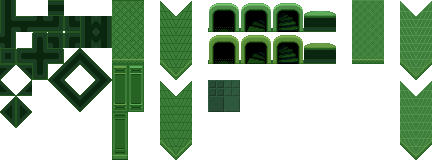
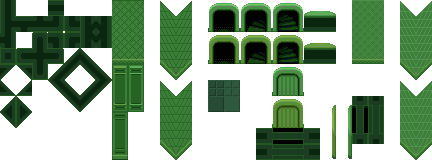
Add east west doors for jade interiors.

Changed region(s): [[0.5718, 0.4062, 0.9028, 1.0]]

diff --git a/app/content/objects/doorStyles.ts b/app/content/objects/doorStyles.ts
@@ -4,10 +4,17 @@ import {
     iceRightAnimation,
     iceTopAnimation,
 } from 'app/content/animations/iceOverlay';
-import type { Door } from 'app/content/objects/door';
-import { createAnimation, drawFrame, drawFrameAt, getFrame } from 'app/utils/animations';
-import { debugCanvas } from 'app/utils/canvas';
-import { requireFrame } from 'app/utils/packedImages';
+import type {Door} from 'app/content/objects/door';
+import {
+    createAnimation,
+    drawFrame,
+    drawFrameAt,
+    drawFrameContentAt,
+    drawFrameContentReflectedAt,
+    getFrame,
+} from 'app/utils/animations';
+import {debugCanvas} from 'app/utils/canvas';
+import {requireFrame} from 'app/utils/packedImages';
 
 
 interface DoorStyleFrames {
@@ -29,12 +36,14 @@ export interface DoorStyleDefinition {
     isLadderUp?: boolean
     isLadderDown?: boolean
     render?: (context: CanvasRenderingContext2D, state: GameState, door: Door) => void
+    renderAfterHero?: (context: CanvasRenderingContext2D, state: GameState, door: Door) => void
     renderForeground?: (context: CanvasRenderingContext2D, state: GameState, door: Door) => void
     down?: DoorStyleFrames
     right?: DoorStyleFrames
     up?: DoorStyleFrames
     left?: DoorStyleFrames
     mapIcon?: MapIcon
+    getDrawPriority?: (state: GameState, door: Door) => DrawPriority|undefined
     // Possible options for dynamic map icons:
     // getMapIcon?: (state: GameState, door: Door) => void
     // renderMapIcon?: (context: CanvasRenderingContext2D, state: GameState, door: Door) => void
@@ -61,11 +70,13 @@ interface V1DoorFrames {
     westDoorOpenForeground: Frame
     westDoorClosed: Frame
     westCrackedWall: Frame
+    westDoorTrim?: Frame
     eastDoorEmpty: Frame
     eastDoorEmptyForeground: Frame
     eastDoorOpen: Frame
     eastDoorOpenForeground: Frame
     eastDoorClosed: Frame
+    eastDoorTrim?: Frame
     eastCrackedWall: Frame
     southDoorEmpty: Frame
     southDoorOpen: Frame
@@ -123,6 +134,24 @@ function renderV1DoorBackground(this: void, context: CanvasRenderingContext2D, s
     }
     // There is no background frame for southern doors.
     checkToRenderFrozenDoor(context, state, door);
+}
+
+// When the hero is a render child of the door, we need to make sure the east/west trim is drawn in front of the hero, but we
+// cannot draw it in the foreground in general as it should be behind the hero when the hero stands to the south of the door trim.
+function renderV1DoorAfterHero(this: void, context: CanvasRenderingContext2D, state: GameState, door: Door, v1DoorFrames: V1DoorFrames) {
+    if (door.definition.d === 'left') {
+        if (v1DoorFrames.westDoorTrim) {
+            drawFrameContentAt(context, v1DoorFrames.westDoorTrim, {x: door.x + 16, y: door.y - 2});
+        } else if (v1DoorFrames.eastDoorTrim) {
+            drawFrameContentReflectedAt(context, v1DoorFrames.eastDoorTrim, {x: door.x + 16, y: door.y - 2});
+        }
+    } else if (door.definition.d === 'right') {
+        if (v1DoorFrames.eastDoorTrim) {
+            drawFrameContentAt(context, v1DoorFrames.eastDoorTrim, {x: door.x - 16, y: door.y - 2});
+        } else if (v1DoorFrames.eastDoorTrim) {
+            drawFrameContentReflectedAt(context, v1DoorFrames.eastDoorTrim, {x: door.x - 16, y: door.y - 2});
+        }
+    }
 }
 
 function renderV1DoorForeground(context: CanvasRenderingContext2D, state: GameState, door: Door, v1DoorFrames: V1DoorFrames, h = 12) {
@@ -706,9 +735,9 @@ const jadeLightDoorStyle: DoorStyleDefinition = {
 
 //DARK JADE DOOR STYLE
 const jadeDarkImage = 'gfx/tiles/jadeCityDark.png';
-const jadeDarkDoorOpen = requireFrame(jadeDarkImage, {x: 96, y: 110, w: 32, h: 36})
-const jadeDarkStairsDown = requireFrame(jadeDarkImage, {x: 128, y: 110, w: 32, h: 36})
-const jadeDarkStairsUp = requireFrame(jadeDarkImage, {x: 160, y: 110, w: 32, h: 36})
+const jadeDarkDoorOpen = requireFrame(jadeDarkImage, {x: 96, y: 110, w: 32, h: 36});
+const jadeDarkStairsDown = requireFrame(jadeDarkImage, {x: 128, y: 110, w: 32, h: 36});
+const jadeDarkStairsUp = requireFrame(jadeDarkImage, {x: 160, y: 110, w: 32, h: 36});
 
 //Using cavern doors to fill in for non-existant jade doors
 const jadeDarkDoorFrames: V1DoorFrames = {
@@ -727,7 +756,10 @@ const jadeLightIntImage = 'gfx/tiles/jadeInteriorLight.png';
 const jadeLight1IntDoorOpen = requireFrame(jadeLightIntImage, {x: 208, y: 0, w: 32, h: 32})
 const jadeLight1IntStairsDown = requireFrame(jadeLightIntImage, {x: 240, y: 0, w: 32, h: 32})
 const jadeLight1IntStairsUp = requireFrame(jadeLightIntImage, {x: 272, y: 0, w: 32, h: 32})
-const jadeLight1IntSouthDoor = requireFrame('gfx/tiles/jadeInteriorLight.png', {x: 304, y: 0, w: 32, h: 32})
+const jadeLight1IntSouthDoor = requireFrame(jadeLightIntImage, {x: 304, y: 0, w: 32, h: 32})
+const jadeLight1IntEastTrim = requireFrame(jadeLightIntImage, {x: 336, y: 96, w: 16, h: 64});
+const jadeLight1IntEastOpen = requireFrame(jadeLightIntImage, {x: 352, y: 96, w: 16, h: 48});
+const jadeLight1IntEastClosed = requireFrame(jadeLightIntImage, {x: 368, y: 96, w: 16, h: 48});
 /*
 const jadeLight2IntDoorOpen = requireFrame(jadeLightIntImage, {x: 208, y: 32, w: 32, h: 32})
 const jadeLight2IntStairsDown = requireFrame(jadeLightIntImage, {x: 240, y: 32, w: 32, h: 32})
@@ -736,6 +768,17 @@ const jadeLight2IntSouthDoor = requireFrame('gfx/tiles/jadeInteriorLight.png', {
 */
 const jadeLight1DoorFrames: V1DoorFrames = {
     ...cavernDoorFrames, 
+    eastDoorEmpty: jadeLight1IntEastOpen,
+    eastDoorEmptyForeground: jadeLight1IntEastOpen,
+    eastDoorOpen: jadeLight1IntEastOpen,
+    eastDoorOpenForeground: jadeLight1IntEastOpen,
+    eastDoorClosed: jadeLight1IntEastClosed,
+    eastDoorTrim: jadeLight1IntEastTrim,
+    westDoorEmpty: jadeLight1IntEastOpen,
+    westDoorEmptyForeground: jadeLight1IntEastOpen,
+    westDoorOpen: jadeLight1IntEastOpen,
+    westDoorOpenForeground: jadeLight1IntEastOpen,
+    westDoorClosed: jadeLight1IntEastClosed,
     northDoorway: jadeLight1IntDoorOpen,
     southDoorEmpty: jadeLight1IntSouthDoor,
     southDoorOpen: jadeLight1IntSouthDoor,
@@ -751,8 +794,43 @@ const jadeLight2DoorFrames:  V1DoorFrames = {
 */
 
 const jadeLight1DoorStyle: DoorStyleDefinition = {
-    ...commonBaseDoorStyle,
+    getHitbox(door: Door) {
+        if (door.definition.d === 'up') {
+            return {x: door.x, y: door.y, w: 32, h: 32};
+        }
+        if (door.definition.d === 'down') {
+            return {x: door.x, y: door.y + 8, w: 64, h: 8};
+        }
+        if (door.definition.d === 'left') {
+            return {x: door.x, y: door.y + 4, w: 20, h: 56};
+        }
+        if (door.definition.d === 'right') {
+            return {x: door.x - 4, y: door.y + 4, w: 20, h: 56};
+        }
+    },
+    getPathHitbox(door: Door) {
+        if (door.definition.d === 'up') {
+            return {x: door.x + 8, y: door.y, w: 16, h: 32};
+        }
+        if (door.definition.d === 'down') {
+            return {x: door.x + 16, y: door.y + 8, w: 32, h: 8};
+        }
+        if (door.definition.d === 'left') {
+            return {x: door.x, y: door.y + 32, w: 20, h: 16};
+        }
+        if (door.definition.d === 'right') {
+            return {x: door.x - 4, y: door.y + 32, w: 20, h: 16};
+        }
+    },
+    getDrawPriority: (state, door) => {
+        if (door.definition.d === 'left' || door.definition.d === 'right') {
+            return 'sprites';
+        }
+        // Use default draw priority for doors otherwise.
+        return undefined;
+    },
     render: (context, state, door) => renderV1DoorBackground(context, state, door, jadeLight1DoorFrames),
+    renderAfterHero: (context, state, door) => renderV1DoorAfterHero(context, state, door, jadeLight1DoorFrames),
     renderForeground: (context, state, door) => renderV1DoorForeground(context, state, door, jadeLight1DoorFrames),
 };
 
@@ -769,17 +847,31 @@ const jadeDarkIntImage = 'gfx/tiles/jadeInteriorDark.png';
 const jadeDark1IntDoorOpen = requireFrame(jadeDarkIntImage, {x: 208, y: 0, w: 32, h: 32})
 const jadeDark1IntStairsDown = requireFrame(jadeDarkIntImage, {x: 240, y: 0, w: 32, h: 32})
 const jadeDark1IntStairsUp = requireFrame(jadeDarkIntImage, {x: 272, y: 0, w: 32, h: 32})
-const jadeDark1IntSouthDoor = requireFrame('gfx/tiles/jadeInteriorDark.png', {x: 304, y: 0, w: 32, h: 32})
+const jadeDark1IntSouthDoor = requireFrame(jadeDarkIntImage, {x: 304, y: 0, w: 32, h: 32})
+const jadeDark1IntEastTrim = requireFrame(jadeDarkIntImage, {x: 336, y: 96, w: 16, h: 64});
+const jadeDark1IntEastOpen = requireFrame(jadeDarkIntImage, {x: 352, y: 96, w: 16, h: 48});
+const jadeDark1IntEastClosed = requireFrame(jadeDarkIntImage, {x: 368, y: 96, w: 16, h: 48});
 
 /*
 const jadeDark2IntDoorOpen = requireFrame(jadeDarkIntImage, {x: 208, y: 32, w: 32, h: 32})
 const jadeDark2IntStairsDown = requireFrame(jadeDarkIntImage, {x: 240, y: 32, w: 32, h: 32})
 const jadeDark2IntStairsUp = requireFrame(jadeDarkIntImage, {x: 272, y: 32, w: 32, h: 32})
-const jadeDark2IntSouthDoor = requireFrame('gfx/tiles/jadeInteriorDark.png', {x: 256, y: 96, w: 64, h: 32})
+const jadeDark2IntSouthDoor = requireFrame(jadeDarkIntImage, {x: 256, y: 96, w: 64, h: 32})
 */
 
 const jadeDark1DoorFrames: V1DoorFrames = {
     ...cavernDoorFrames,
+    eastDoorEmpty: jadeDark1IntEastOpen,
+    eastDoorEmptyForeground: jadeDark1IntEastOpen,
+    eastDoorOpen: jadeDark1IntEastOpen,
+    eastDoorOpenForeground: jadeDark1IntEastOpen,
+    eastDoorClosed: jadeDark1IntEastClosed,
+    eastDoorTrim: jadeDark1IntEastTrim,
+    westDoorEmpty: jadeDark1IntEastOpen,
+    westDoorEmptyForeground: jadeDark1IntEastOpen,
+    westDoorOpen: jadeDark1IntEastOpen,
+    westDoorOpenForeground: jadeDark1IntEastOpen,
+    westDoorClosed: jadeDark1IntEastClosed,
     northDoorway: jadeDark1IntDoorOpen,
     southDoorEmpty: jadeDark1IntSouthDoor,
     southDoorOpen: jadeDark1IntSouthDoor,
@@ -795,8 +887,9 @@ const jadeDark2DoorFrames:  V1DoorFrames = {
 */
 
 const jadeDark1DoorStyle: DoorStyleDefinition = {
-    ...commonBaseDoorStyle,
+    ...jadeLight1DoorStyle,
     render: (context, state, door) => renderV1DoorBackground(context, state, door, jadeDark1DoorFrames),
+    renderAfterHero: (context, state, door) => renderV1DoorAfterHero(context, state, door, jadeDark1DoorFrames),
     renderForeground: (context, state, door) => renderV1DoorForeground(context, state, door, jadeDark1DoorFrames),
 };
 

diff --git a/app/content/zones/holyCityInterior.ts b/app/content/zones/holyCityInterior.ts
@@ -542,11 +542,11 @@ const f0_1x1: AreaDefinition = {
                     [2241,0,0,0,0,0,0,0,0,0,0,0,0,0,0,2241,28,2241,0,0,0,0,0,0,0,0,0,0,0,0,0,2241],
                     [2241,0,0,0,0,0,0,0,0,0,0,0,0,0,0,2241,28,2241,0,0,0,0,0,0,0,0,0,0,0,0,0,2241],
                     [2241,0,0,0,0,0,0,0,0,0,0,0,0,0,0,2241,28,2241,0,0,0,0,0,0,0,0,0,0,0,0,0,2241],
-                    [2241,0,0,0,0,0,0,0,0,0,0,0,0,0,0,2264,28,2264,0,0,0,0,0,0,0,0,0,0,0,0,0,2241],
+                    [2241,0,0,0,0,0,0,0,0,0,0,0,0,0,0,2241,28,2241,0,0,0,0,0,0,0,0,0,0,0,0,0,2241],
                     [2241,0,0,0,0,0,0,0,0,0,0,0,0,0,0,0,28,0,0,0,0,0,0,0,0,0,0,0,0,0,0,2241],
                     [2241,0,0,0,0,0,0,0,0,0,0,0,0,0,0,0,28,0,0,0,0,0,0,0,0,0,0,0,0,0,0,2241],
                     [2241,0,0,0,0,0,0,0,0,0,0,0,0,0,0,0,28,0,0,0,0,0,0,0,0,0,0,0,0,0,0,2241],
-                    [2241,0,0,0,0,0,0,0,0,0,0,0,0,0,0,2251,28,2251,0,0,0,0,0,0,0,0,0,0,0,0,0,2241],
+                    [2241,0,0,0,0,0,0,0,0,0,0,0,0,0,0,2241,28,2241,0,0,0,0,0,0,0,0,0,0,0,0,0,2241],
                     [2241,0,0,0,0,0,0,0,0,0,0,0,0,0,0,2241,28,2241,0,0,0,0,0,0,0,0,0,0,0,0,0,2241],
                     [2241,0,0,0,0,0,0,0,0,0,0,0,0,0,0,2241,28,2241,0,0,0,0,0,0,0,0,0,0,0,0,0,2241],
                     [2241,0,0,0,0,0,0,0,0,0,0,0,0,0,0,2241,28,2241,0,0,0,0,0,0,0,0,0,0,0,0,0,2241],
@@ -559,8 +559,8 @@ const f0_1x1: AreaDefinition = {
     objects: [
         {status: "normal", id: "moneyMazeEntrance", x: 96, y: 496, type: "door", style: "jadeLightInterior", d: "down", targetZone: "overworld", targetObjectId: "moneyMazeEntrance", linked: true},
         {status: "closed", id: "", x: 368, y: 240, type: "door", style: "jadeLightInterior", d: "down"},
-        {status: "closed", id: "", x: 272, y: 356, type: "door", style: "jadeLightInterior", d: "left", linked: true},
-        {status: "normal", id: "", x: 240, y: 356, type: "door", style: "jadeLightInterior", d: "right", linked: true},
+        {status: "closed", id: "", x: 272, y: 368, type: "door", style: "jadeLightInterior", d: "left", linked: true},
+        {status: "normal", id: "", x: 240, y: 368, type: "door", style: "jadeLightInterior", d: "right", linked: true},
         {status: "normal", id: "moneyMazeExit", x: 432, y: 272, type: "door", style: "jadeDarkInterior", d: "up", targetZone: "overworld", targetObjectId: "moneyMazeExit", linked: true},
         {status: "normal", id: "moneyMazeExit", x: 48, y: 16, type: "door", style: "jadeLightInteriorUpstairs", d: "up", targetZone: "overworld", targetObjectId: "moneyMazeExit"},
         {status: "normal", id: "", x: 16, y: 280, type: "turret", style: "arrow", d: "down", fireInterval: 2000, fireOffset: 0},
@@ -1180,8 +1180,8 @@ const sf0_1x1: AreaDefinition = {
     ],
     objects: [
         {status: "normal", id: "jadeCityWestDoor", x: 96, y: 496, type: "door", style: "jadeDarkInterior", d: "down", targetZone: "overworld", targetObjectId: "jadeCityWestDoor", linked: true, spirit: true},
-        {status: "closedSwitch", id: "jadeCityMazeDoor", x: 240, y: 356, type: "door", style: "jadeDarkInterior", d: "right", linked: true, spirit: true},
-        {status: "closed", id: "", x: 272, y: 356, type: "door", style: "jadeDarkInterior", d: "left", linked: true, spirit: true},
+        {status: "closedSwitch", id: "jadeCityMazeDoor", x: 240, y: 368, type: "door", style: "jadeDarkInterior", d: "right", linked: true, spirit: true},
+        {status: "closed", id: "", x: 272, y: 368, type: "door", style: "jadeDarkInterior", d: "left", linked: true, spirit: true},
         {status: "normal", id: "jadeCityMazeExit", x: 432, y: 272, type: "door", style: "jadeLightInteriorUpstairs", d: "up", targetZone: "overworld", targetObjectId: "jadeCityMazeExit", linked: true, spirit: true},
         {status: "normal", id: "jadeCityMazeSmallMoney", x: 32, y: 304, type: "chest", lootType: "money", lootAmount: 20},
         {status: "normal", id: "jadeCityMazeBigMoney", x: 464, y: 448, type: "chest", lootType: "money", lootAmount: 100},

diff --git a/app/content/objects/door.ts b/app/content/objects/door.ts
@@ -79,6 +79,12 @@ export class Door implements ObjectInstance {
     area: AreaInstance;
     //drawPriority: DrawPriority = 'background';
     getDrawPriority(state: GameState): DrawPriority {
+        if (this.style.getDrawPriority) {
+            const drawPriority = this.style.getDrawPriority(state, this);
+            if (drawPriority) {
+                return drawPriority;
+            }
+        }
         // Upgrade the draw priority to 'sprites' when the hero is rendered by the door.
         // Otherwise the hero might be drawn behind objects on the ground, like the key block
         // in the Tomb that is right next to a door.
@@ -552,7 +558,6 @@ export class Door implements ObjectInstance {
             }
         }
         if (state.hero.renderParent == this) {
-
             if (this.area === state.nextAreaInstance) {
                 // The hero's coordinates are always relative to `this.area`, so we need to
                 // adjust by the door's camera offset if it is part of the next area during a transition.
@@ -581,6 +586,9 @@ export class Door implements ObjectInstance {
                     }
                 }
             }
+        }
+        if (this.style.renderAfterHero) {
+            this.style.renderAfterHero(context, state, this);
         }
     }
     renderForeground(context: CanvasRenderingContext2D, state: GameState) {

diff --git a/app/content/tiles.ts b/app/content/tiles.ts
@@ -261,12 +261,14 @@ export function generateTileHash({ frame }: {frame: Frame}): string {
     const imageData = context.getImageData(0, 0, 16, 16).data;
     return imageData.join(',');
 }
+window.generateTileHash = generateTileHash;
 let imageMap: TileHashMap;
 export function generateTileHashMap(): TileHashMap {
     if (imageMap) {
         return imageMap;
     }
     imageMap = {};
+    window.imageMap = imageMap;
     imageMap[emptyKey] = allTiles[1];
     // don't add the null+empty tiles.
     addTilesToTileHashMap(allTiles.slice(2));
@@ -291,7 +293,9 @@ export function addTilesToTileHashMap(tiles: FullTile[]) {
             }
             continue;
         }
-        imageMap[hashKey] = tile;
+        if (!imageMap[hashKey]) {
+            imageMap[hashKey] = tile;
+        }
     }
 }
 

diff --git a/app/updateActor.ts b/app/updateActor.ts
@@ -535,6 +535,8 @@ function checkToStartScreenTransition(state: GameState, hero: Hero) {
         || hero.isAstralProjection
         // Falling from the sky transitions you, so you won't softlock here.
         || state.location.zoneKey === 'sky'
+        // Falling in this location will transition you to the water drain.
+        || (state.location.zoneKey === 'treeWater' && !state.location.isSpiritWorld)
         // Falling in this location will transition you to the forest temple zone.
         || (state.location.zoneKey === 'forest' && state.location.isSpiritWorld);
     // Do not trigger the scrolling transition when traveling through a zone door.
